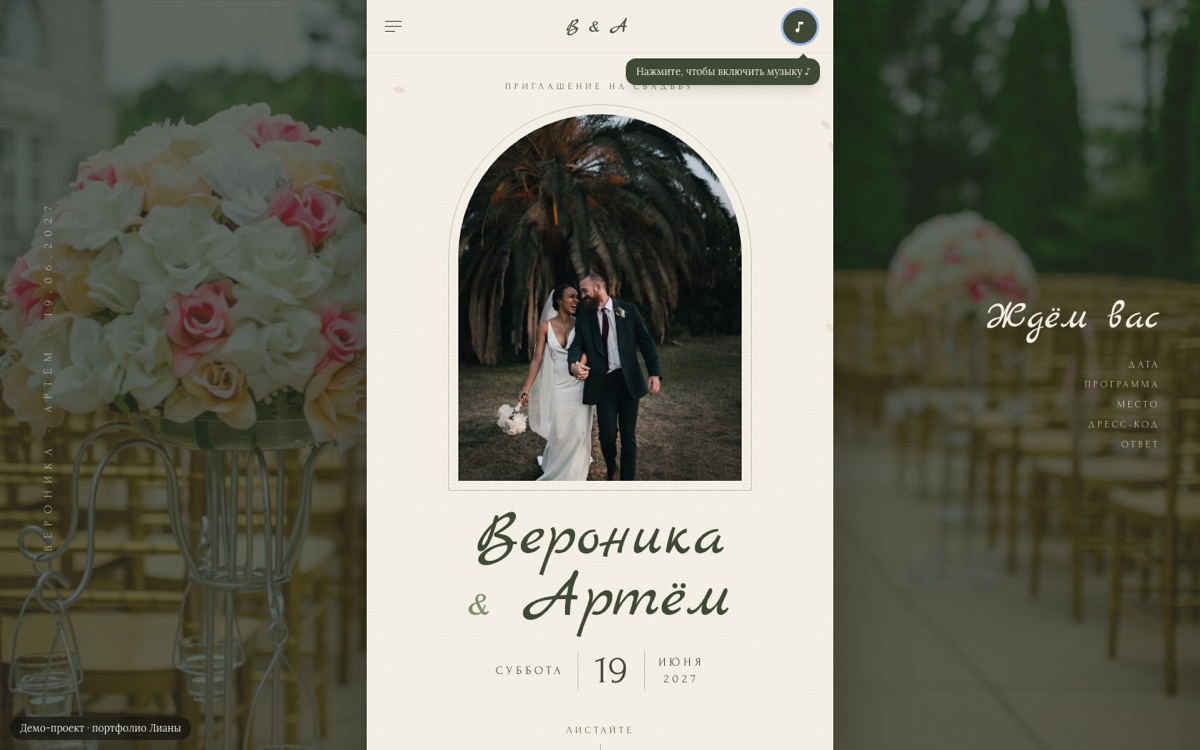
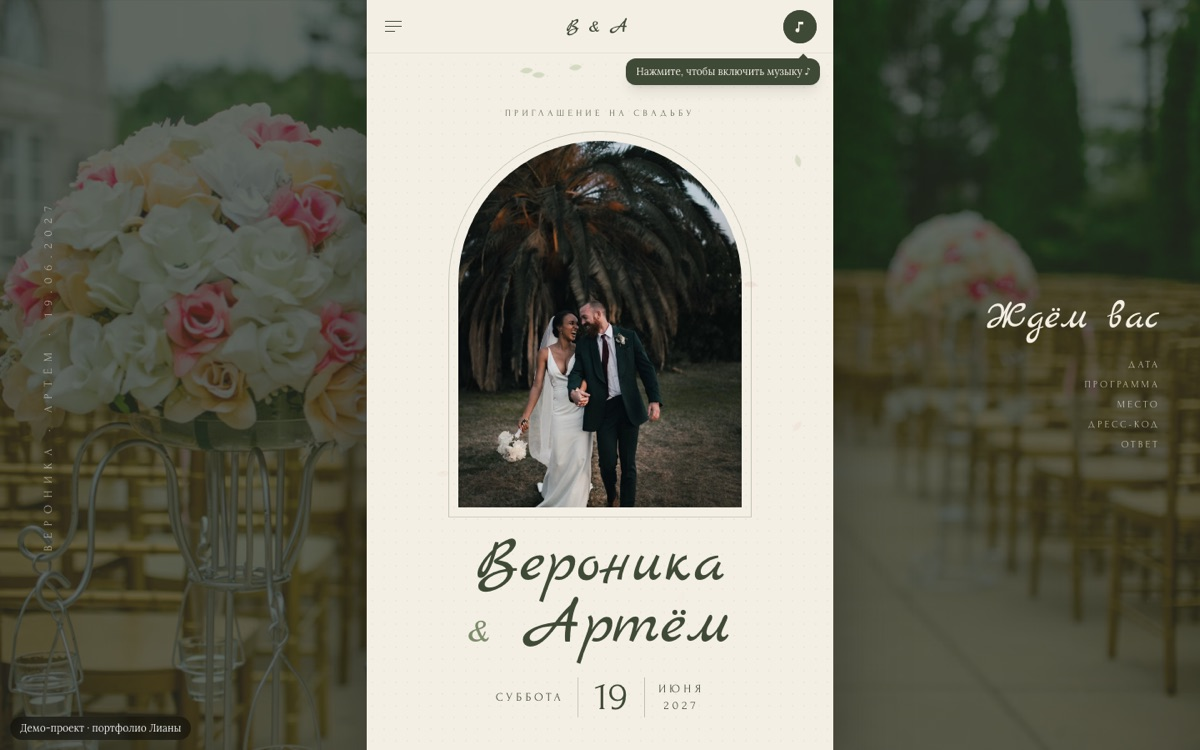
Все 20 демо-проектов

diff --git a/index.html b/index.html
@@ -261,14 +261,14 @@ if (TG) document.getElementById('tgLink').href = 'https://t.me/' + TG;
 
 const CATS = {land:'Лендинги', biz:'Сайты компаний', event:'Мероприятия', shop:'Магазины', tg:'Telegram и ИИ'};
 const ALL_WORKS = [
-  ['wedding','Свадебное агентство','Галерея свадеб с фильтром, пакеты, заявка с датой','event','#c9a27c'],
+  ['wedding','Свадебное агентство Maison Aurelle','Галерея свадеб с фильтром, пакеты, заявка с датой','event','#A9746E'],
   ['ai-agent','ИИ-агент Nexa','Живой демо-чат с агентом, карточка лида, тарифы','tg','#8b5cf6'],
-  ['calories','Нутрициолог','Калькулятор калорий и БЖУ, продажа планов питания','land','#5bd18b'],
+  ['calories','Нутрициолог «Норма»','Калькулятор калорий и БЖУ, продажа планов питания','land','#FF5A1F'],
   ['coffee-app','Mini App кофейни «Зерно»','Меню, настройка напитка, корзина и бонусы в Telegram','tg','#2aabee'],
-  ['realestate','Элитная недвижимость','Каталог с фильтром и ипотечный калькулятор','biz','#c8a96a'],
-  ['invitation','Онлайн-приглашение','Таймер до события, музыка, RSVP','event','#e6a5b4'],
+  ['realestate','Элитная недвижимость ONYX','Каталог с фильтром, ипотечный калькулятор','biz','#C8A97E'],
+  ['invitation','Онлайн-приглашение на свадьбу','Таймер, музыка, схема места, RSVP-анкета','event','#7C8B6A'],
   ['domgran','Строительство «Домгрань»','Калькулятор цены и срока дома, каталог проектов','biz','#c9a36b'],
-  ['outdoor','Наружная реклама','Калькулятор вывески, адресная программа','biz','#ff5a36'],
+  ['outdoor','Наружная реклама «КОНТУР»','Калькулятор вывески с превью, карта поверхностей','biz','#FFD60A'],
   ['lumiere','Студия красоты Lumière','Запись: услуга, мастер, календарь и время','land','#c98f7a'],
   ['shop','Косметика OVSA для WB/Ozon','Карточки с инфографикой, варианты товара, корзина','shop','#2F6B5A'],
   ['psychologist','Психолог «Вера Ладова»','Квиз из 5 вопросов, онлайн-запись по слотам, FAQ','land','#C2714F'],

diff --git a/work/wedding/index.html b/work/wedding/index.html
@@ -324,7 +324,7 @@ tailwind.config = { theme: { extend: {
     <div class="grid lg:grid-cols-12 rounded-[28px] overflow-hidden bg-sand">
       <div class="lg:col-span-5 relative min-h-[400px] md:min-h-[420px]">
         <img class="absolute inset-0 w-full h-full object-cover" src="https://images.unsplash.com/photo-1465495976277-4387d4b0b4c6?w=1200&q=80&auto=format&fit=crop" alt="Руки жениха и невесты с обручальными кольцами">
-        <div class="absolute inset-0 bg-gradient-to-t from-ink/80 via-ink/20 to-transparent"></div>
+        <div class="absolute inset-0 bg-gradient-to-t from-ink/90 via-ink/50 to-ink/10"></div>
         <div class="absolute bottom-0 p-8 md:p-10 text-ivory">
           <div class="font-serif text-3xl md:text-4xl leading-tight">Первая встреча<br>бесплатно и ни к чему не обязывает</div>
           <div class="mt-6 text-sm space-y-1 text-ivory/80">
@@ -427,7 +427,7 @@ render();
 // Lightbox
 const lb = document.querySelector('[data-lb]'), lbImg = lb.querySelector('[data-lb-img]');
 let cur = 0;
-function show(i){ cur = (i+list.length)%list.length; const w = list[cur];
+function show(i){ if(!list.length) return; cur = (i+list.length)%list.length; const w = list[cur];
   lbImg.src = U(w.id); lbImg.alt = w.a;
   lb.querySelector('[data-lb-title]').textContent = w.t;
   lb.querySelector('[data-lb-meta]').textContent = `${w.d} · ${cur+1} / ${list.length}`; }

diff --git a/work/realestate/index.html b/work/realestate/index.html
@@ -347,8 +347,8 @@ grid.addEventListener('click',e=>{ const c=e.target.closest('[data-o]'); if(c) o
 $('[data-mthumbs]').addEventListener('click',e=>{ const t=e.target.closest('[data-k]'); if(!t) return; $('[data-mimg]').src=U(cur.img[+t.dataset.k]); $$('[data-mthumbs] .thumb').forEach(x=>x.classList.toggle('on',x===t)); });
 $('[data-mclose]').onclick=closeO; modal.addEventListener('click',e=>{ if(e.target===modal) closeO(); });
 document.addEventListener('keydown',e=>{ if(e.key==='Escape') closeO(); });
-$('[data-mview]').onclick=()=>{ $('[data-obj]').value=`${cur.t}, ${cur.a} (${mln(cur.p)})`; closeO(); $('#contact').scrollIntoView({behavior:'smooth'}); };
-$('[data-mcalc]').onclick=()=>{ $('#mp').value=Math.min(800,cur.p); mort(); closeO(); $('#mortgage').scrollIntoView({behavior:'smooth'}); };
+$('[data-mview]').onclick=()=>{ if(!cur) return; $('[data-obj]').value=`${cur.t}, ${cur.a} (${mln(cur.p)})`; closeO(); $('#contact').scrollIntoView({behavior:'smooth'}); };
+$('[data-mcalc]').onclick=()=>{ if(!cur) return; $('#mp').value=Math.min(800,cur.p); mort(); closeO(); $('#mortgage').scrollIntoView({behavior:'smooth'}); };
 
 // Mortgage
 let rate=17.9;

diff --git a/ready.js b/ready.js
@@ -1,1 +1,1 @@
-window.READY=["wedding","ai-agent","domgran","lumiere","coffee-app","sigma-school","dental","fitness","law","autoservice","food","psychologist","cleaning","travel","kids","shop"];
+window.READY=["ai-agent","autoservice","calories","cleaning","coffee-app","dental","domgran","fitness","food","invitation","kids","law","lumiere","outdoor","psychologist","realestate","shop","sigma-school","travel","wedding"];
